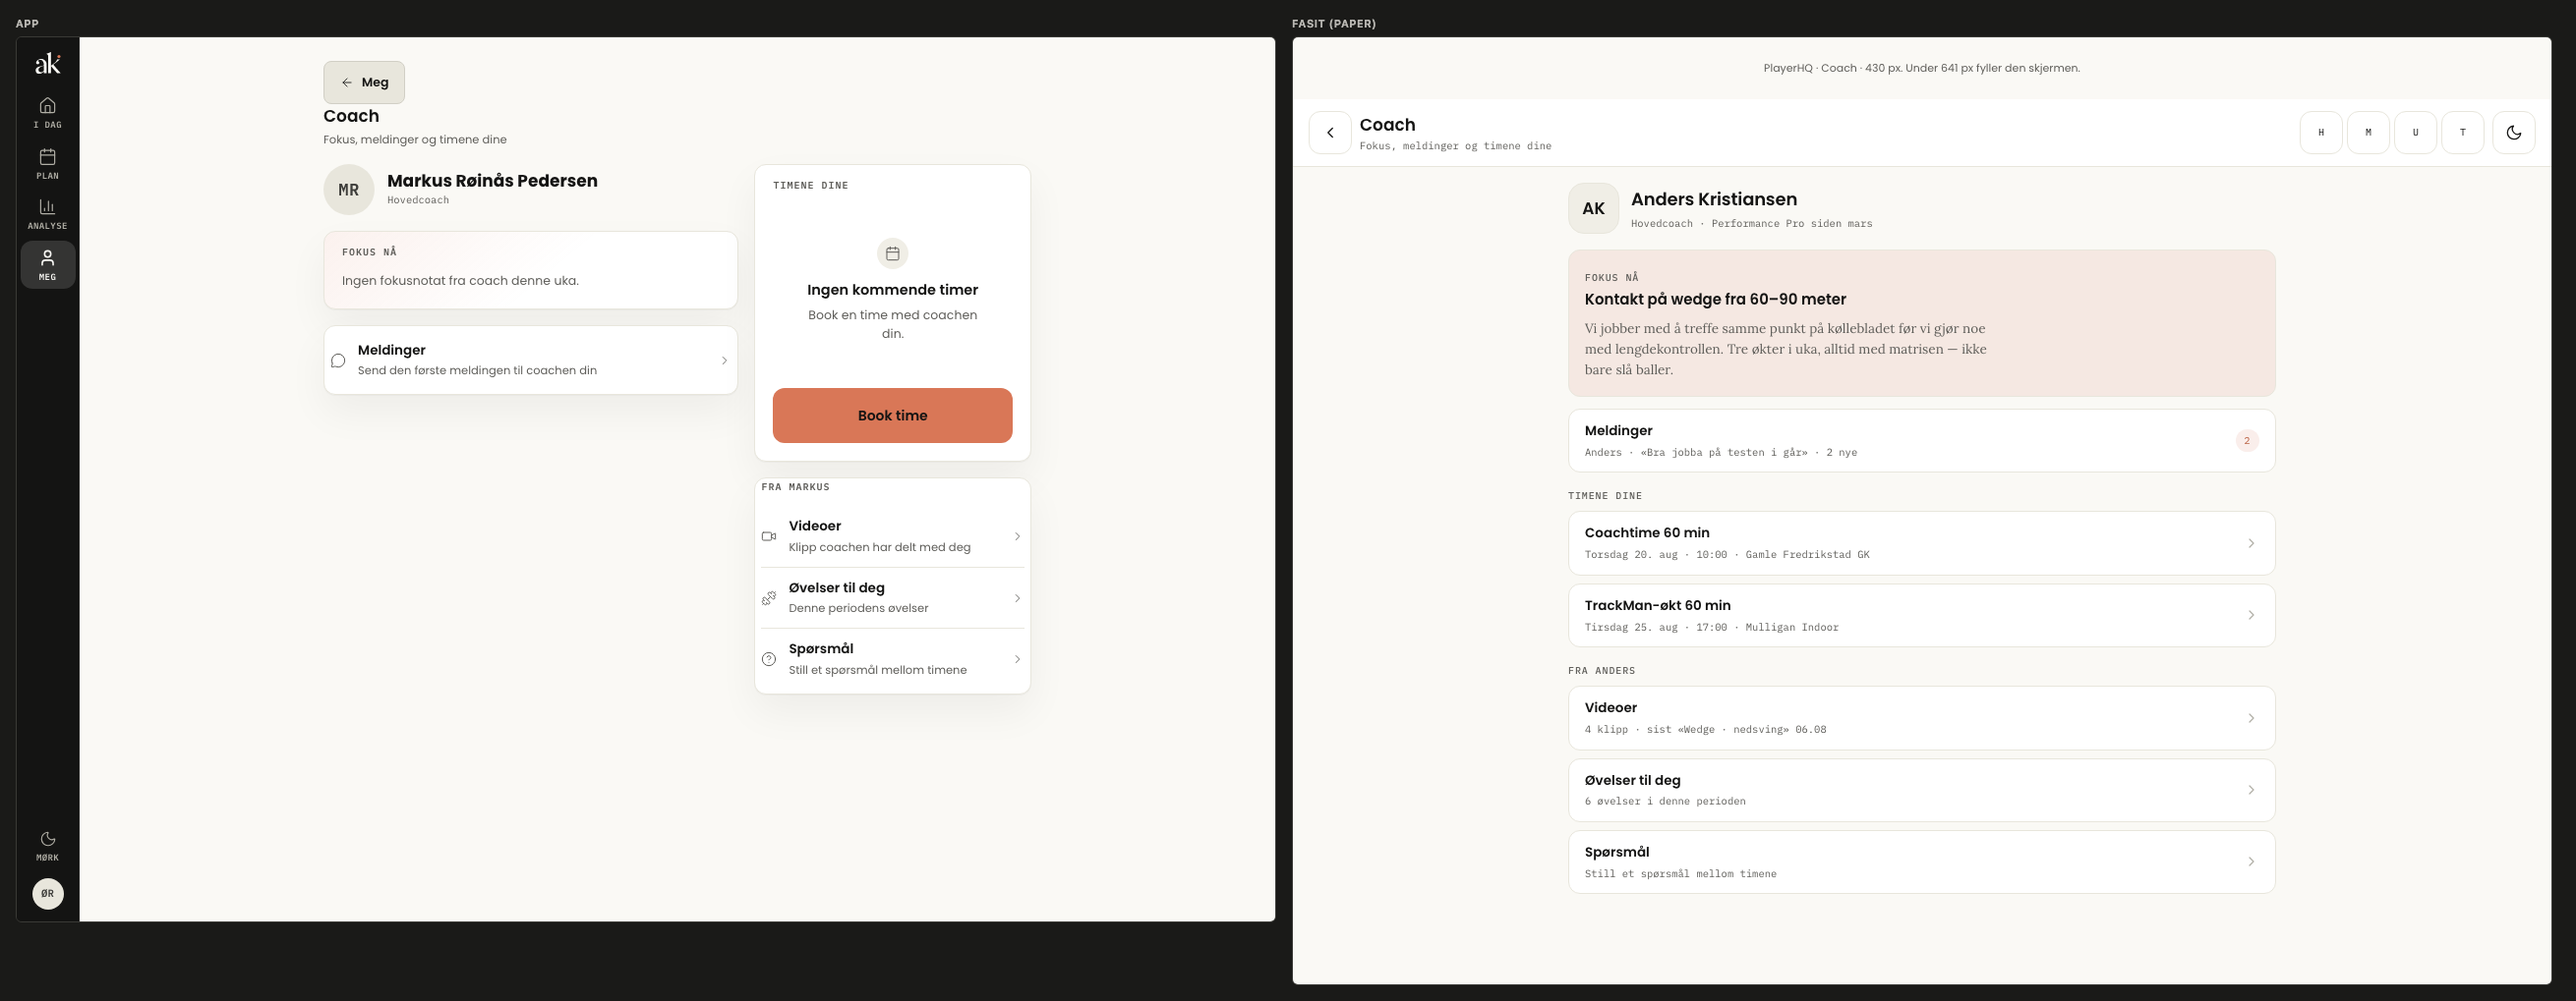
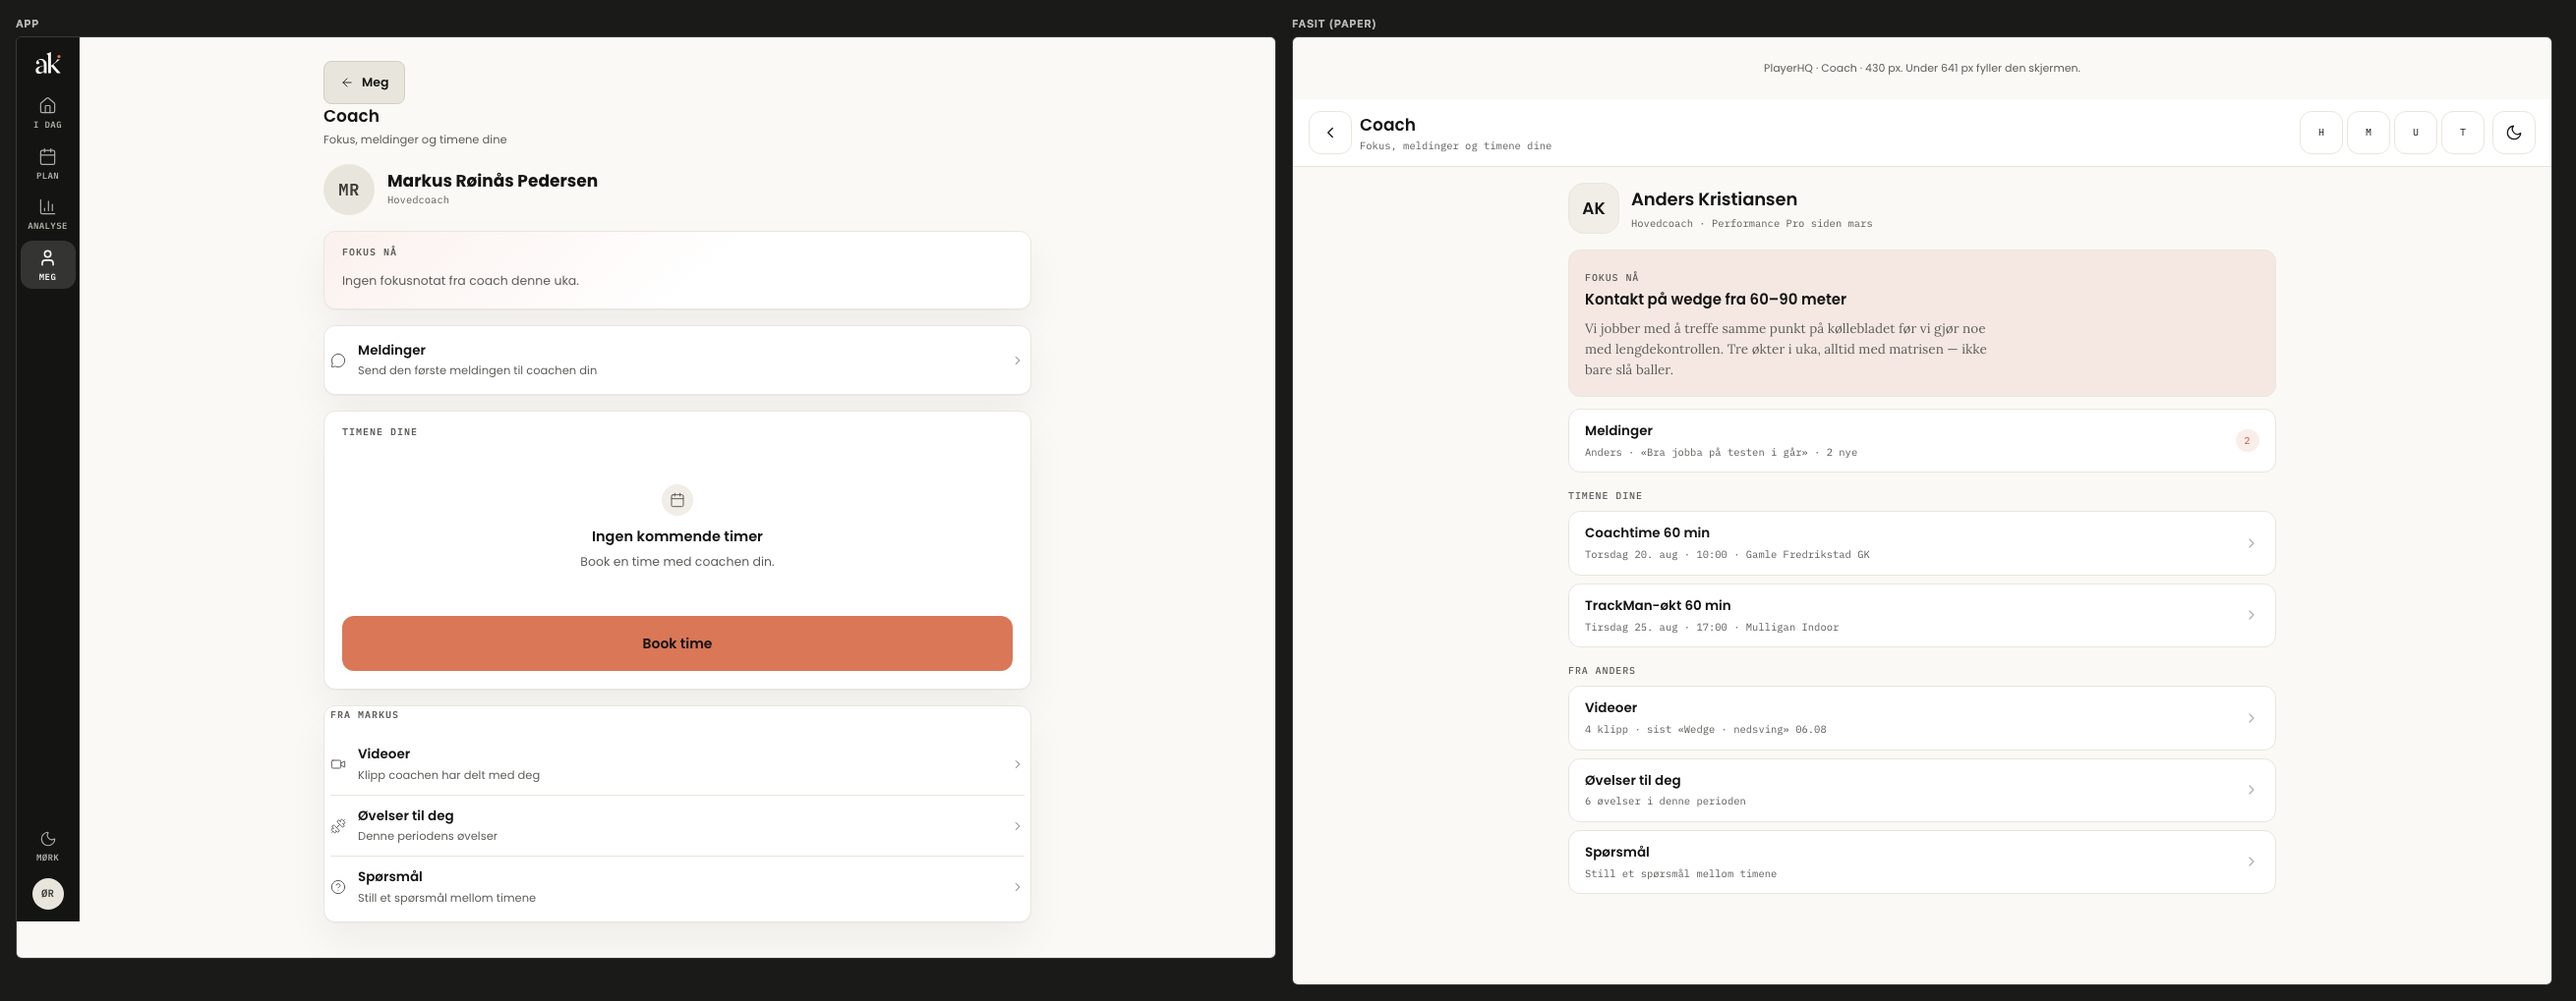
docs(regler): speilet i designsystem/paper er arbeidsfasit + galleri for bølge C
Anders' beslutning 12.08: sammenligning mot Claude Design krevde henting via
claude-design-MCP før hver skjerm. Den koblingen er ikke tilgjengelig i alle
økter, så regelen pekte på en stengt vei og forbød samtidig tillit til speilet
— som er målt byte-identisk med siste zip (09.08, 208 HTML).

Speilet er nå arbeidsfasit så lenge SYNC-STATUS.md viser at det er målt mot
siste zip. 605a48cc er fortsatt originalen ved uenighet. Endret i CLAUDE.md
og beslutninger.md (to steder).

Galleriet kjørt for de fire bølge C-skjermene: app mot fasit, mobil 390,
lys og mørk, pluss vindusbilder som viser fastlåst krom.

diff --git a/.claude/rules/beslutninger.md b/.claude/rules/beslutninger.md
@@ -40,12 +40,16 @@ Gjelder til Anders endrer dem.
   `TEK_CHIP_LAV_HAST_TRENINGSOMRADE_ALENE` (kilde: `fase1/workbench-mobil.html`).
   Databasen beholder de finkornede enum-verdiene — `ak-formel-visning.ts` er fortsatt broen.
 - **Design-fasit er Claude Paper 1:1 (Anders 2026-08-04):** skjermene skal bli **slik de er
-  designet i Claude Design-prosjektet «AK Golf HQ — Claude Paper»** (`605a48cc`, hentet via
-  `claude-design`-MCP-verktøyet — det er den levende kilden) — layout, informasjonsarkitektur og
-  interaksjonsmønster, ikke bare farger/tokens. `designsystem/paper/fase1/` i repoet er et lokalt
-  speil av samme mappe, brukt kun til rask lesing/diff; det er IKKE kilden og kan henge etter (var
-  25 av 33 skjermer 05.08.2026 — sjekk alltid mot Claude Design-prosjektet direkte før du stoler på
-  at speilet er ajour). Bakgrunn: steg 7 PR1–PR4 ble merget med riktige
+  designet i Claude Design-prosjektet «AK Golf HQ — Claude Paper»** (`605a48cc`) — layout,
+  informasjonsarkitektur og interaksjonsmønster, ikke bare farger/tokens.
+  **Speilregelen endret 2026-08-12 (Anders):** `designsystem/paper/` er **arbeidsfasiten** —
+  208 HTML-filer, målt byte-identisk mot siste zip (zip (3), 09.08). Den gamle formuleringen
+  («IKKE kilden, sjekk alltid mot Claude Design-prosjektet direkte») skrev seg fra 05.08, da
+  speilet var 25 av 33 skjermer. Det stemmer ikke lenger, og `claude-design`-MCP-en er ikke
+  tilgjengelig i alle økter — så regelen krevde en vei som ofte er stengt, samtidig som den
+  forbød tillit til den som virker. `605a48cc` er fortsatt originalen ved uenighet, og speilet
+  resynkes når Anders leverer ny zip. Sjekk `SYNC-STATUS.md` for ferskhet.
+  Bakgrunn for selve 1:1-kravet: steg 7 PR1–PR4 ble merget med riktige
   tokens men feil skall («Én ting nå» manglet på alle fire, Hjem manglet artefaktkolonne/tom
   tilstand, Planlegge hadde 5 konkurrerende CTA-er). Full avviksliste og ombyggingsplan:
   `docs/port/plan-designport-alle-skjermer.md` §Avvik.
@@ -99,8 +103,7 @@ Gjelder til Anders endrer dem.
   Full skjermport kjører nå aktivt per `docs/port/plan-designport-alle-skjermer.md` (10 steg,
   én PR per skjerm/steg, aldri merge til main uten Anders' «ja»). `designsystem/paper/` er et
   lokalt speil hentet ned i repoet 02.08.2026 (PR #254, ikke lenger kun på `chore/paper-speil-lokal`)
-  — men speilet er IKKE kilden og oppdateres ikke automatisk; Claude Design-prosjektet `605a48cc`
-  (via `claude-design`-MCP) er alltid fasiten. Se også `docs/gjenstaaende-plan-2026-07-31.md` §1.1
+  — og er siden 12.08.2026 **arbeidsfasiten**, se speilregelen over. Se også `docs/gjenstaaende-plan-2026-07-31.md` §1.1
   (historisk — skrevet før overstyringen) og `docs/for-under-etter-spec.md` §2 for historikken.
 - **Navne-kanon (demo):** spiller = **Øyvind Rohjan**, coach = **Anders Kristiansen** — alltid fulle
   navn, gamle demo-navn skal bort. Unntak: ekte coach **«Markus Røinås Pedersen»** på markedssidene,

diff --git a/CLAUDE.md b/CLAUDE.md
@@ -53,8 +53,17 @@ via `claude-design`-MCP-verktøyet) er designfasit; full port til `src/` kjører
 
 ## Skjermarbeid (gjeldende prosess)
 
-**Designfasit:** Claude Paper — Claude Design-prosjektet `605a48cc`, skjermene i `fase1/` (hentes via
-`claude-design`-MCP). `designsystem/paper/fase1/` i repoet er kun et lokalt speil og kan være utdatert.
+**Designfasit:** Claude Paper — Claude Design-prosjektet `605a48cc` er **originalen**.
+**Arbeidsfasiten er det lokale speilet `designsystem/paper/`** (208 HTML, `fase1/` + `fase2/`) —
+det er den du leser, differ og sammenligner mot. Speilet gjelder så lenge
+`designsystem/paper/SYNC-STATUS.md` viser at det er målt mot siste zip fra Anders (nå: zip (3),
+09.08.2026, byte-identisk med zip (2) — 0 avvik).
+
+**Resynk skjer når Anders leverer ny zip, ikke før hver skjerm.** Den gamle regelen krevde henting
+via `claude-design`-MCP før hver sammenligning. Den koblingen er ikke tilgjengelig i alle økter, så
+regelen sendte arbeidet inn i en blindvei og sådde tvil om det ene som faktisk virker. Endret
+12.08.2026 etter Anders' beslutning. Er MCP-en tilgjengelig og du er i tvil: verifiser gjerne — men
+det er ikke et krav for å jobbe.
 
 **Dekningsregnskap:** `docs/port/fasit-liste-paper.md` — hvilke skjermer har fasit, hvilke må designes uten.
 
